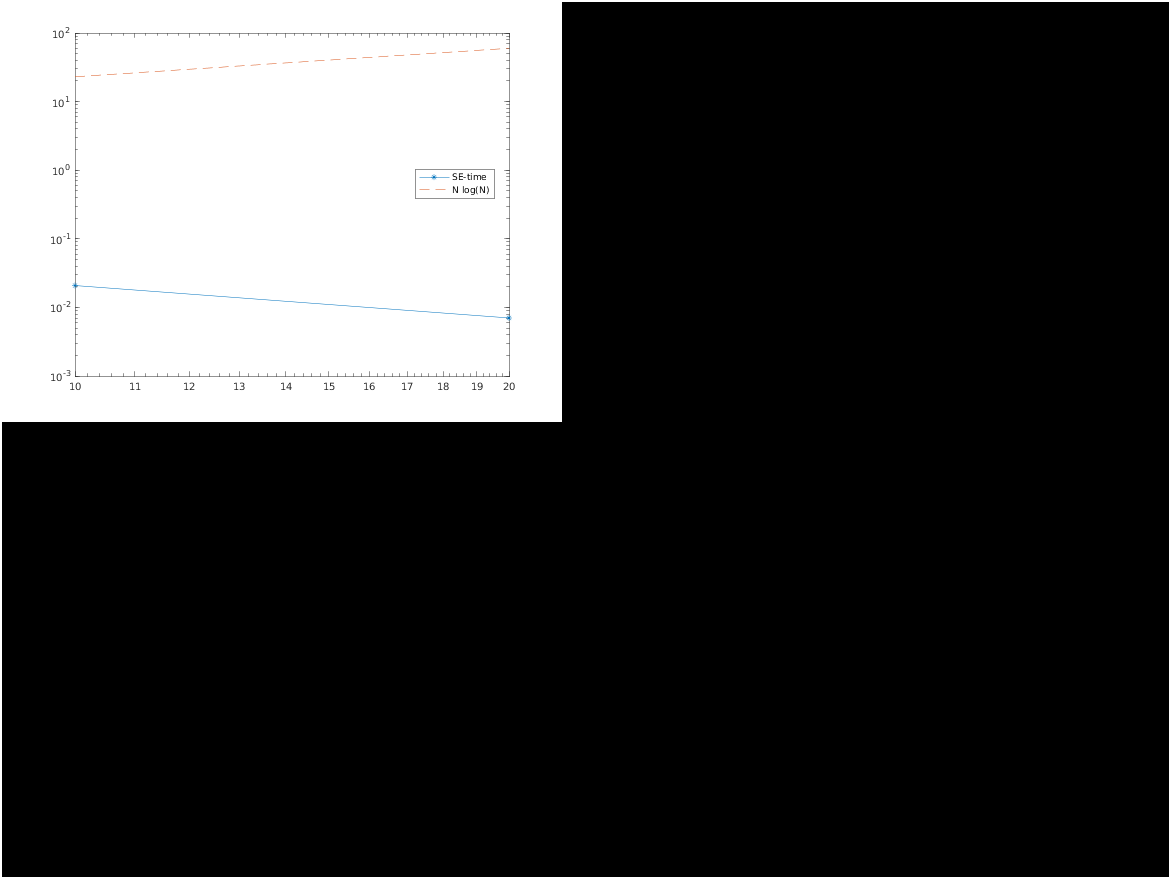
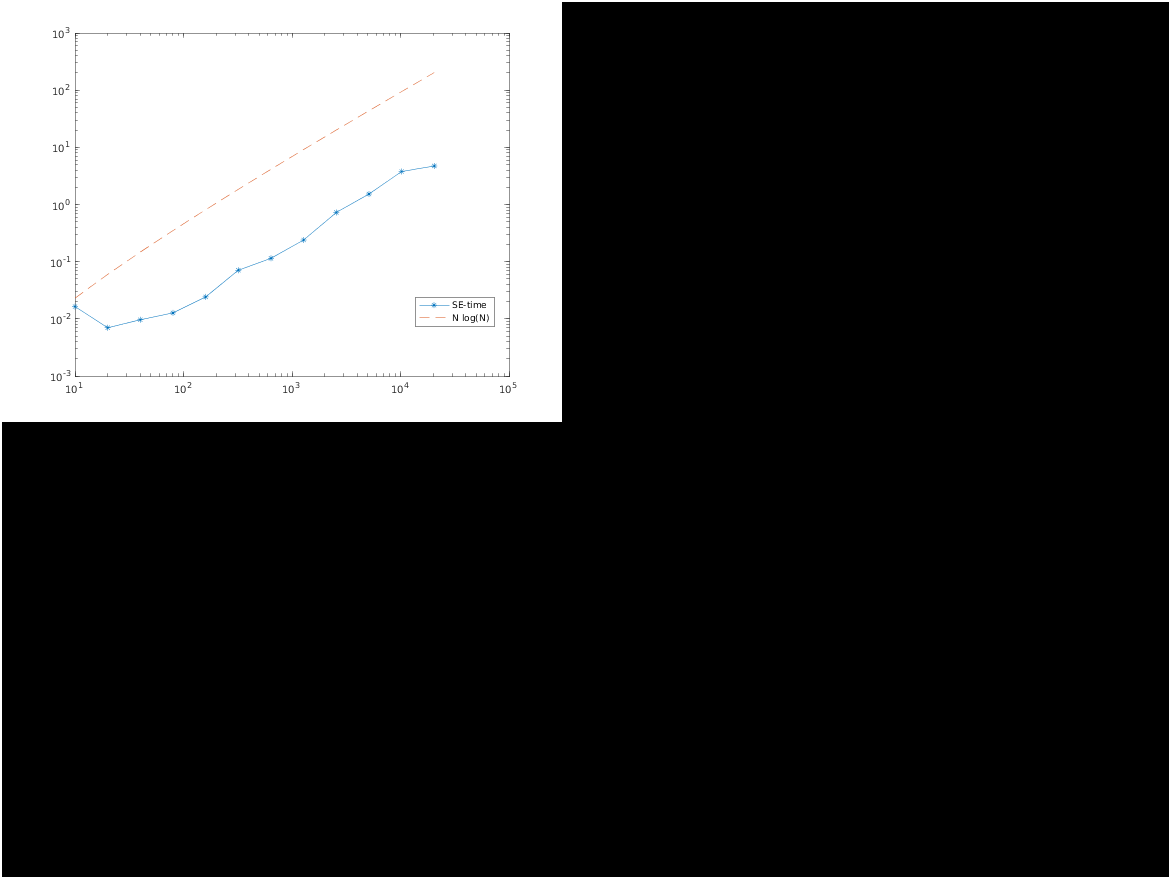
imgs

diff --git a/SE_Stokes_run/SE3P_Stokes/time_compl.m b/SE_Stokes_run/SE3P_Stokes/time_compl.m
@@ -3,7 +3,7 @@
 %%setup
 clear
 rng(1);
-NN = 10*2.^[0:1:1]; % number of source particles
+NN = 10*2.^[0:1:11]; % number of source particles
 
 
 %% Parameter selection
@@ -33,7 +33,7 @@ for N = NN
 end
 loglog(NN,timings,'-*')
 hold on
-loglog(NN,NN.*log(NN),'--')
+loglog(NN,10^-3*NN.*log(NN),'--')
 legend('SE-time','N log(N)','Location','Best')
 
 exportgraphics(gcf,'complexity.png')
@@ -53,7 +53,7 @@ opt.x =x;
 opt.f = f;
 times = [];
 opt.betaP = 2.5;
-MM = 10:10:300;
+MM = 10:10:200;
 for M = MM
 opt.M = M*[1,1,1];
 opt.window = 'kaiser_exact';
